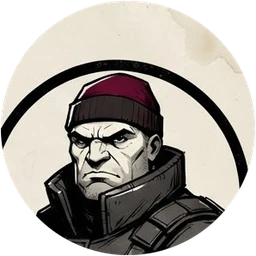
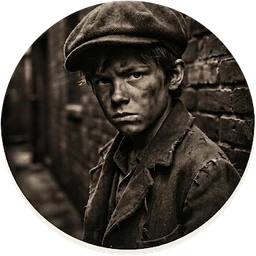
Replace lobby and intake mugshots with Stitch circular portraits.
Import 20 circle-cropped noir avatars from project 16728949405283163881 and bump AVATAR_ASSET_VERSION for cache bust.

diff --git a/src/lib/avatars.ts b/src/lib/avatars.ts
@@ -1,6 +1,6 @@
 export const AVATAR_COUNT = 20;
 /** Bump when regenerating portrait assets so clients skip stale caches. */
-export const AVATAR_ASSET_VERSION = 5;
+export const AVATAR_ASSET_VERSION = 6;
 
 export function avatarSrc(id: number): string {
   const idx = ((id % AVATAR_COUNT) + AVATAR_COUNT) % AVATAR_COUNT;
